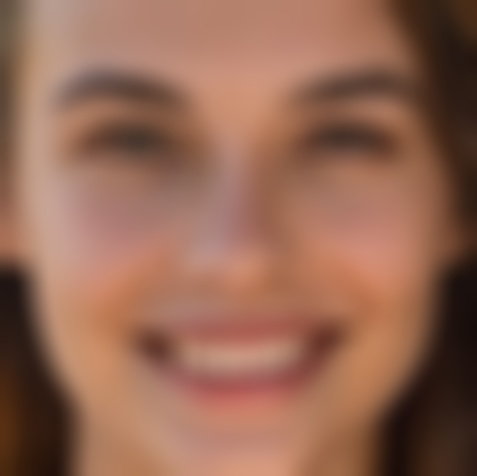
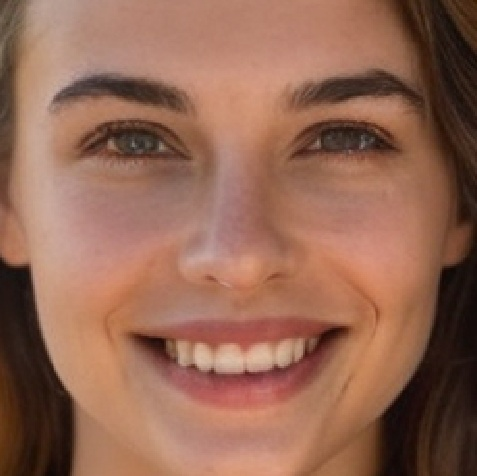
fix: restore unblurred face images, fix PsychoPy guidance text overlap, and make target background transparent

diff --git a/gazefollower/ui/UIBackend.py b/gazefollower/ui/UIBackend.py
@@ -209,6 +209,12 @@ class UIBackend:
         """
         raise NotImplementedError
 
+    def clear_events(self):
+        """
+        Discard buffered keyboard and mouse input events.
+        """
+        pass
+
 
 class PsychoPyUIBackend(UIBackend):
     def __init__(self, win):
@@ -416,40 +422,44 @@ class PsychoPyUIBackend(UIBackend):
     def stop_sound(self, sound_id):
         self._sound_cache[sound_id].stop()
 
-    def draw_text_on_screen_center(self, text: str, font_name: str, font_size: int, text_color=(0, 0, 0)):
-        lines = text.split('\n')
-        sw, sh = self.get_screen_size()
-        line_spacing = int(font_size * 0.2)
-        total_h = len(lines) * font_size + (len(lines) - 1) * line_spacing
-        start_y = (sh - total_h) // 2
+    def clear_events(self):
+        self.event.clearEvents()
+        if hasattr(self, '_last_mouse_pressed'):
+            self._last_mouse_pressed = False
 
-        for idx, line in enumerate(lines):
-            y_pos = start_y + idx * (font_size + line_spacing)
-            self.draw_text(line, self.font_name, font_size, text_color,
-                           (0, y_pos, sw, font_size), align='center')
+    def draw_text_on_screen_center(self, text: str, font_name: str, font_size: int, text_color=(0, 0, 0)):
+        sw, sh = self.get_screen_size()
+        self.text_stim.text = text
+        self.text_stim.font = font_name
+        self.text_stim.height = font_size
+        self.text_stim.color = text_color
+        self.text_stim.pos = (0, 0)
+        self.text_stim.wrapWidth = int(sw * 0.85)
+        if hasattr(self.text_stim, 'alignText'):
+            self.text_stim.alignText = 'center'
+        if hasattr(self.text_stim, 'anchorHoriz'):
+            self.text_stim.anchorHoriz = 'center'
+        if hasattr(self.text_stim, 'anchorVert'):
+            self.text_stim.anchorVert = 'center'
+        self.text_stim.alignHoriz = 'center'
+        self.text_stim.draw()
 
     def draw_text_in_bottom_right_corner(self, text: str, font_name: str, font_size: int, text_color=(0, 0, 0)):
-        lines = text.split('\n')
         sw, sh = self.get_screen_size()
-
-        start_y = int(sh * 0.85)
-        subregion_height = sh - start_y
-
-        line_spacing = int(font_size * 0.2)
-        total_h = len(lines) * font_size + (len(lines) - 1) * line_spacing
-
-        y_offset = start_y + (subregion_height - total_h) // 2
-
-        for idx, line in enumerate(lines):
-            y_pos = y_offset + idx * (font_size + line_spacing)
-            self.draw_text(
-                text=line,
-                font_name=font_name,
-                font_size=font_size,
-                text_color=text_color,
-                rect=(0, y_pos, sw, font_size),
-                align='center'
-            )
+        self.text_stim.text = text
+        self.text_stim.font = font_name
+        self.text_stim.height = font_size
+        self.text_stim.color = text_color
+        self.text_stim.pos = (0, int(-sh * 0.35))
+        self.text_stim.wrapWidth = int(sw * 0.85)
+        if hasattr(self.text_stim, 'alignText'):
+            self.text_stim.alignText = 'center'
+        if hasattr(self.text_stim, 'anchorHoriz'):
+            self.text_stim.anchorHoriz = 'center'
+        if hasattr(self.text_stim, 'anchorVert'):
+            self.text_stim.anchorVert = 'center'
+        self.text_stim.alignHoriz = 'center'
+        self.text_stim.draw()
 
     def listen_keys(self, key: Tuple):
         pressed_keys = self.event.getKeys(keyList=key)
@@ -554,6 +564,9 @@ class PyGameUIBackend(UIBackend):
 
     def get_screen_size(self):
         return self.win.get_size()
+
+    def clear_events(self):
+        pygame.event.clear()
 
     def before_draw(self):
         self.win.fill(self.bg_color)

diff --git a/gazefollower/ui/CalibrationUI.py b/gazefollower/ui/CalibrationUI.py
@@ -34,7 +34,7 @@ class CalibrationUI(BaseUI):
     def draw_guidance(self, instruction_text):
         """Draws the guidance text for the user."""
         self.running = True
-        # texts = instruction_text.split("\n")
+        self.backend.clear_events()
         while self.running:
             # listen event
             self.backend.listen_event(self)
@@ -95,6 +95,7 @@ class CalibrationUI(BaseUI):
                 pass
 
         text += "\nPress `Space` to continue OR `R` to recalibration"
+        self.backend.clear_events()
         while self.running:
             key = self.backend.listen_keys(key=('space', 'r'))
             if key == 'space':
@@ -118,6 +119,7 @@ class CalibrationUI(BaseUI):
 
     def new_session(self):
         self.running = True
+        self.backend.clear_events()
 
     def draw(self, cali_controller: CalibrationController):
         last_x, last_y = -1, -1
